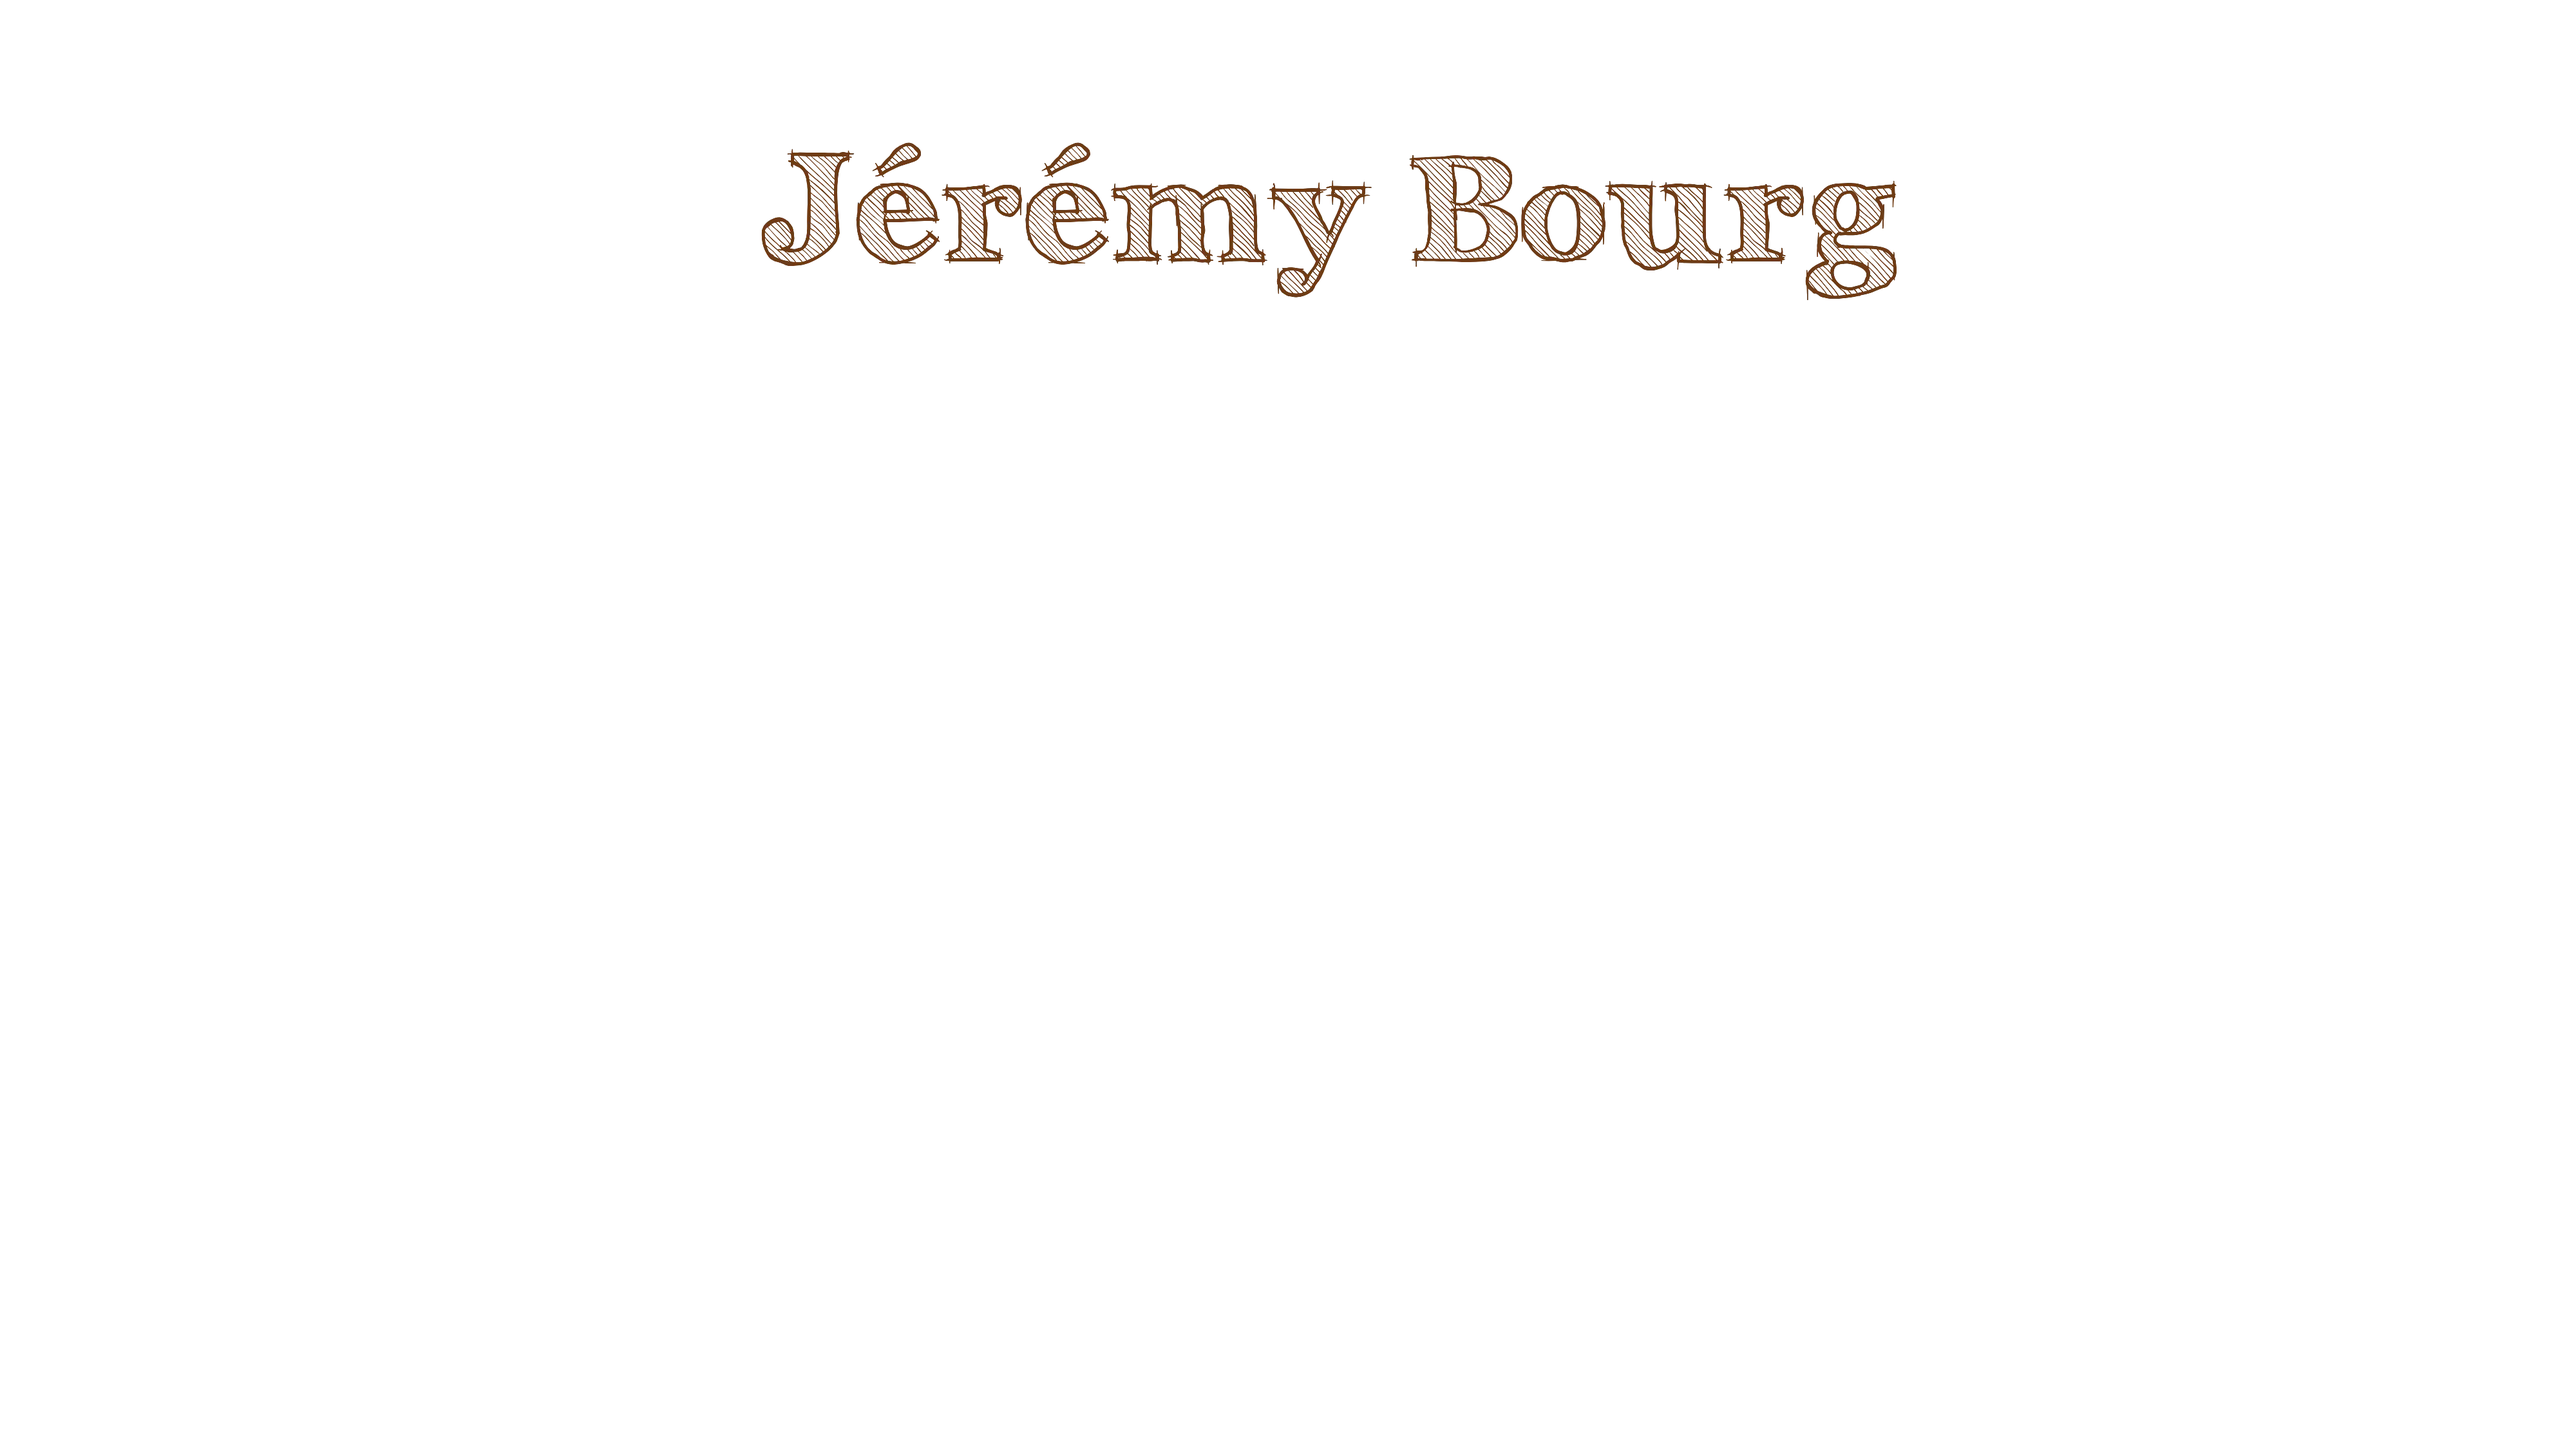
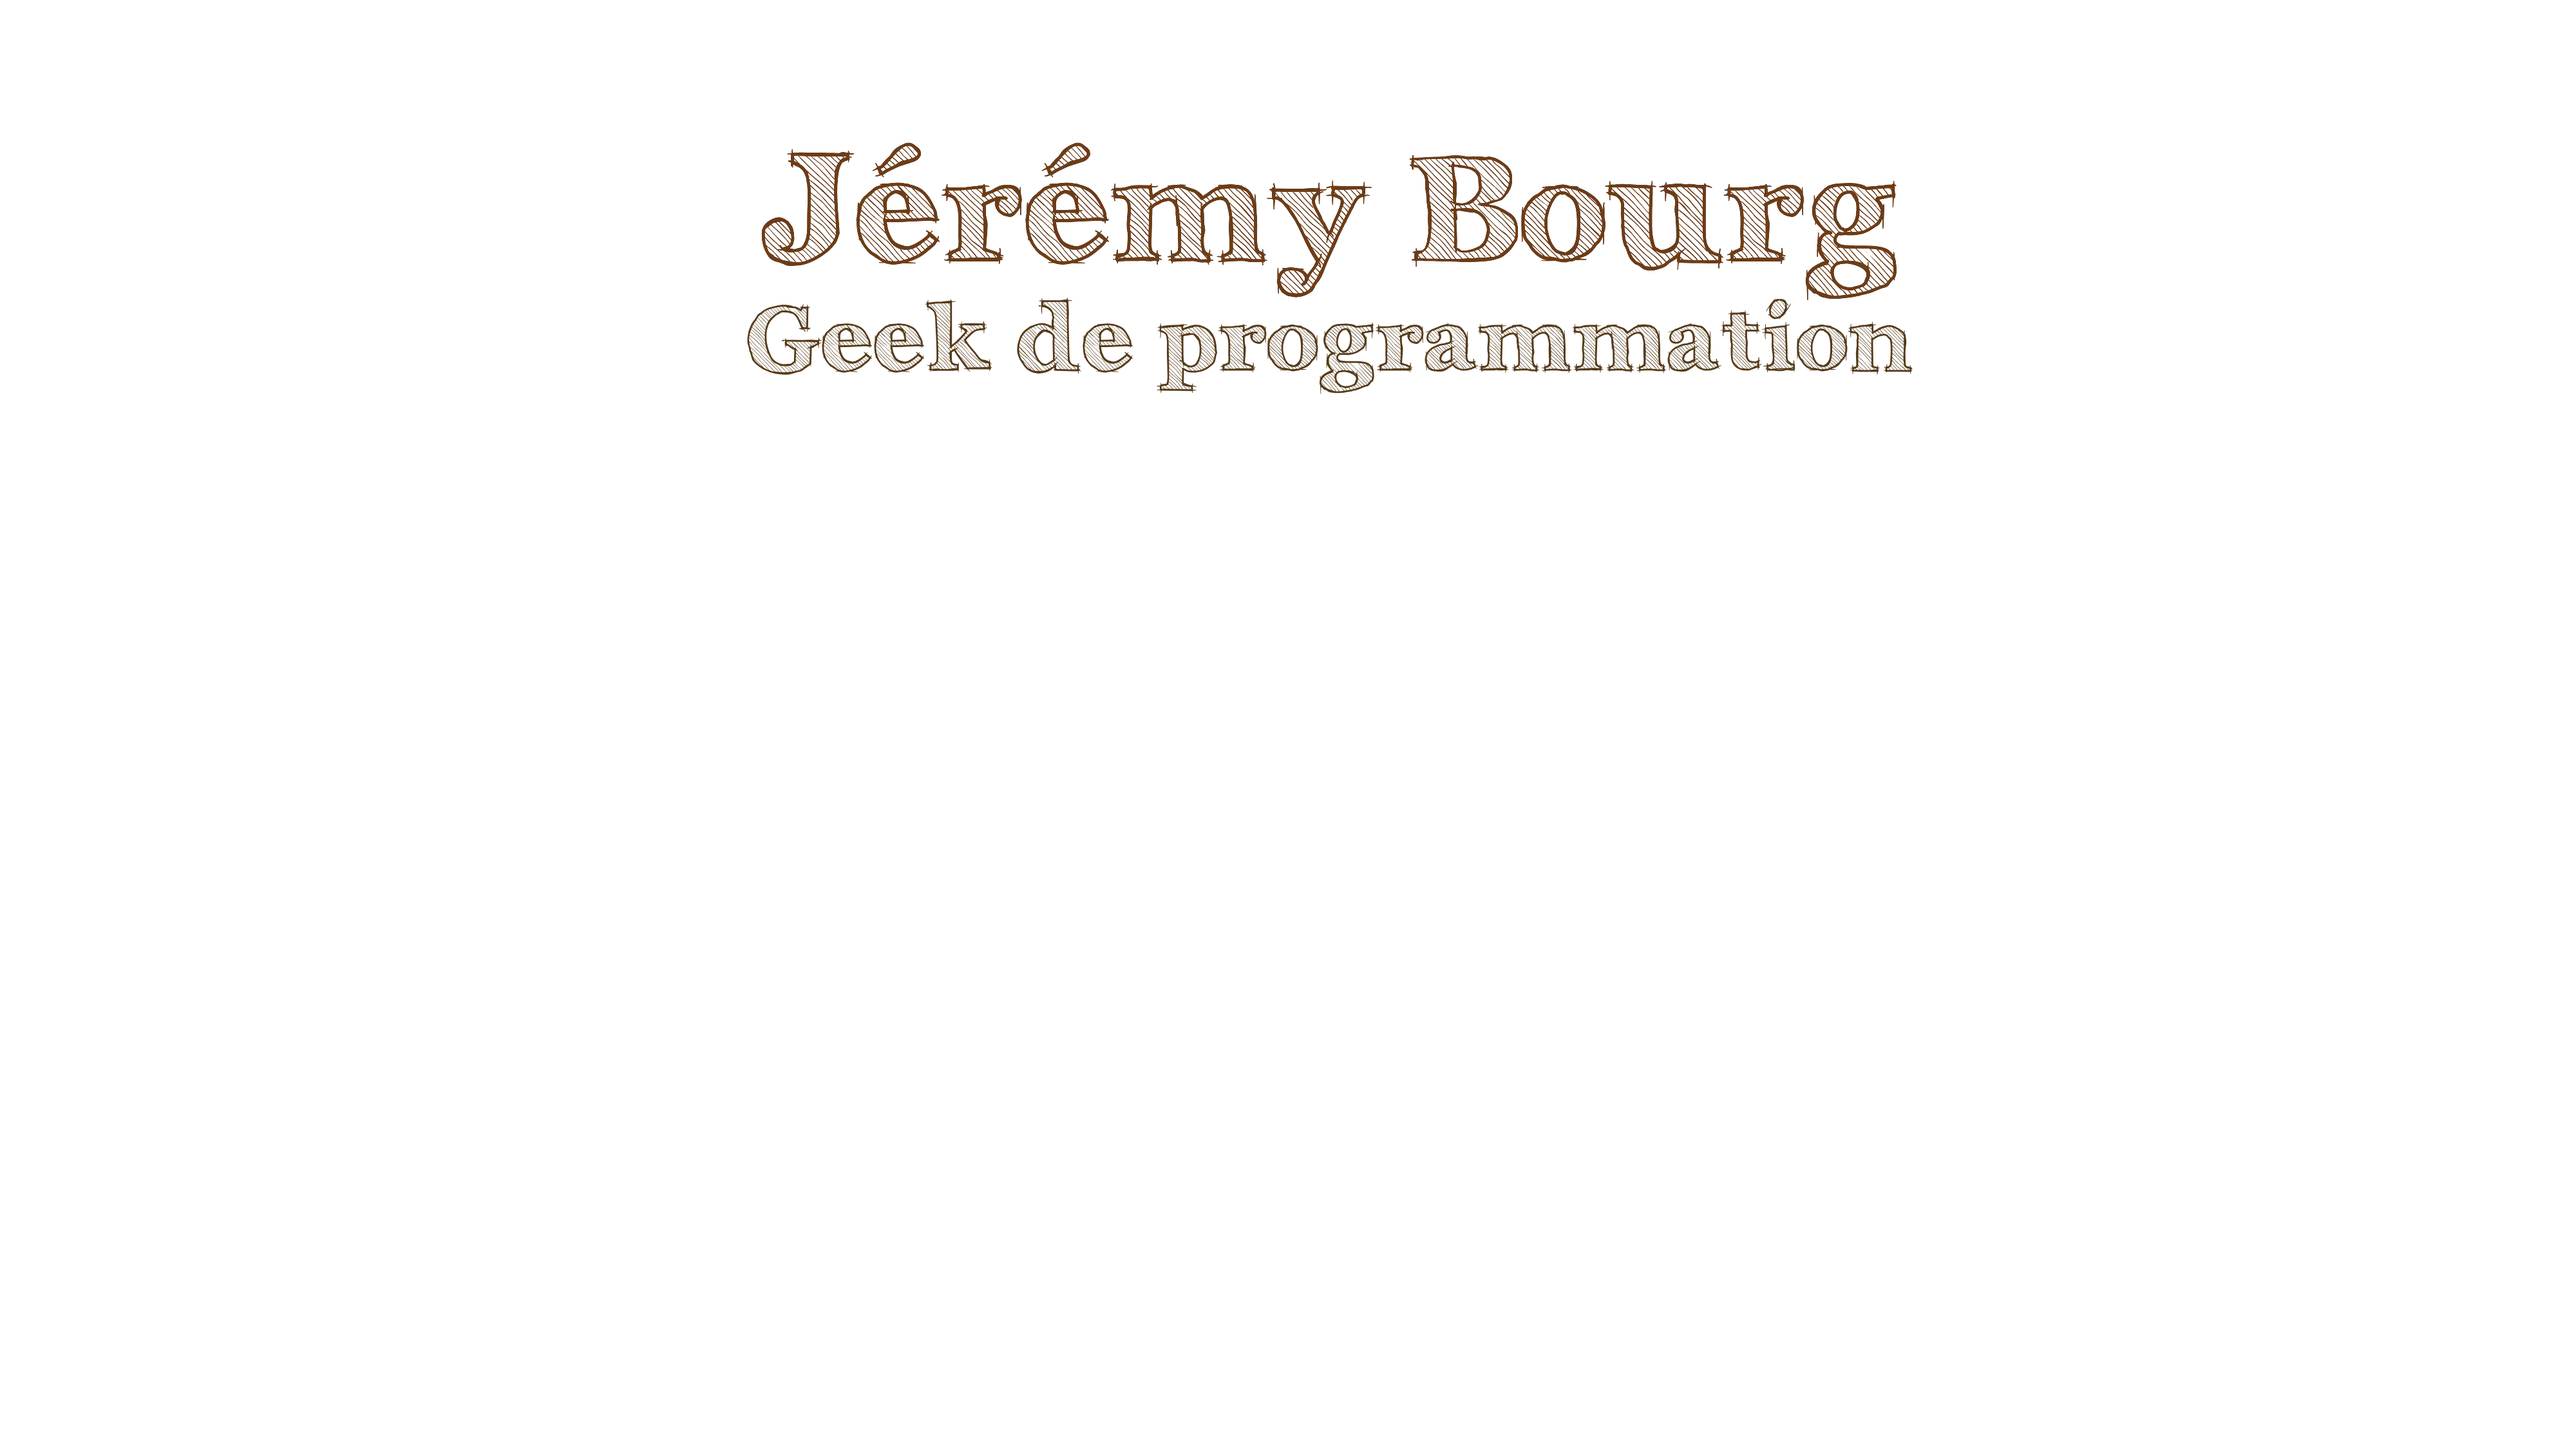
donato fixes

Changed region(s): [[0.2812, 0.2178, 0.75, 0.28]]

diff --git a/src/routes/projets/+page.svelte b/src/routes/projets/+page.svelte
@@ -30,6 +30,7 @@ let {data} = $props();
                 </div>
                 {#if index % 2 !== 0}
 					{#if isVideo}
+						<!-- TODO: fix controls appearing on webkit mobile -->
 						<div class="img-container" data-speed="0.91">
 							<video src="{thumbnail}" autoplay muted loop></video>
 						</div>

diff --git a/src/lib/components/Parallax.svelte b/src/lib/components/Parallax.svelte
@@ -20,6 +20,8 @@ const layers = [
 let top = $state();
 </script>
 
+<!-- TODO: put title (programmer) in parallax name -->
+
 <svelte:window bind:scrollY={top} />
 
 <div id="parallax">
@@ -62,7 +64,7 @@ img {
 }
 .parallax-name {
     z-index: -10;
-    top: 16vh;
+    top: 8vh;
 }
 
 #no-parallax {
